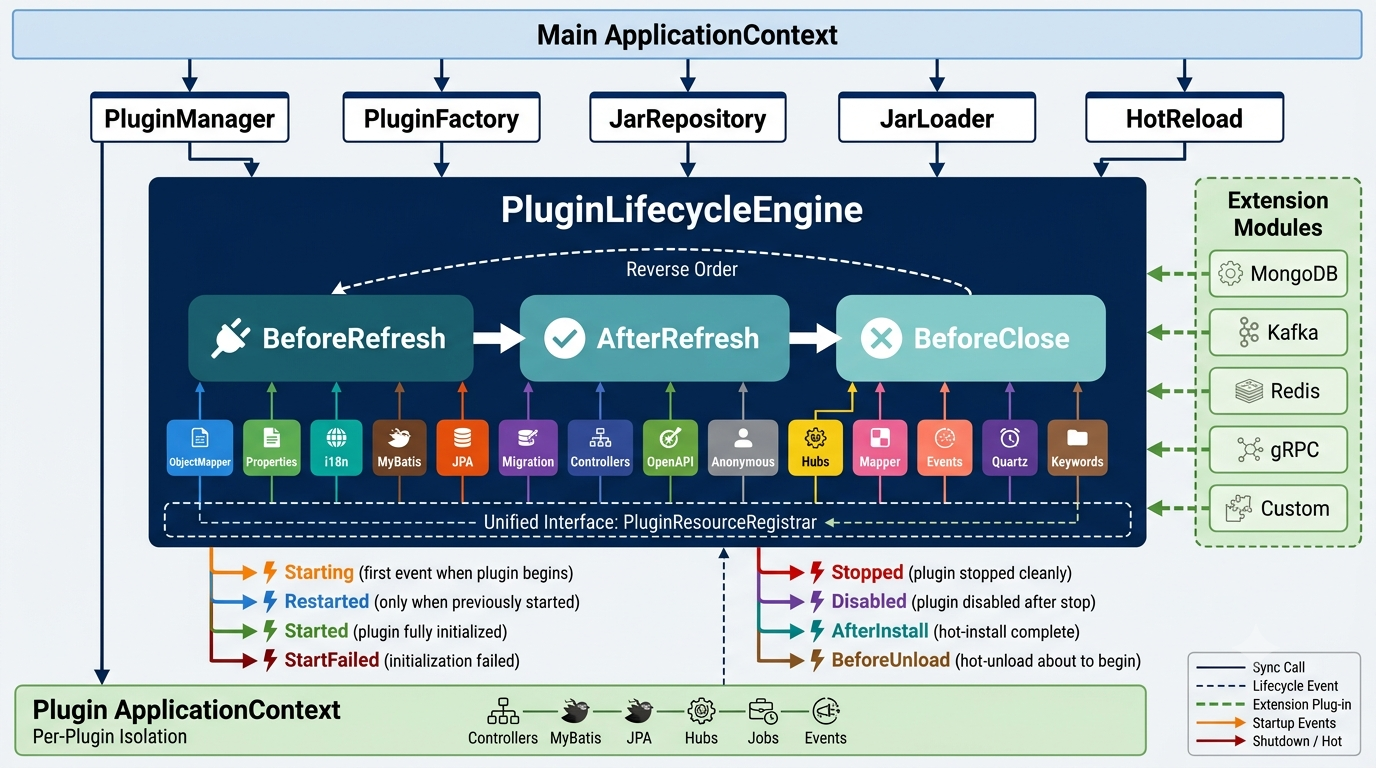
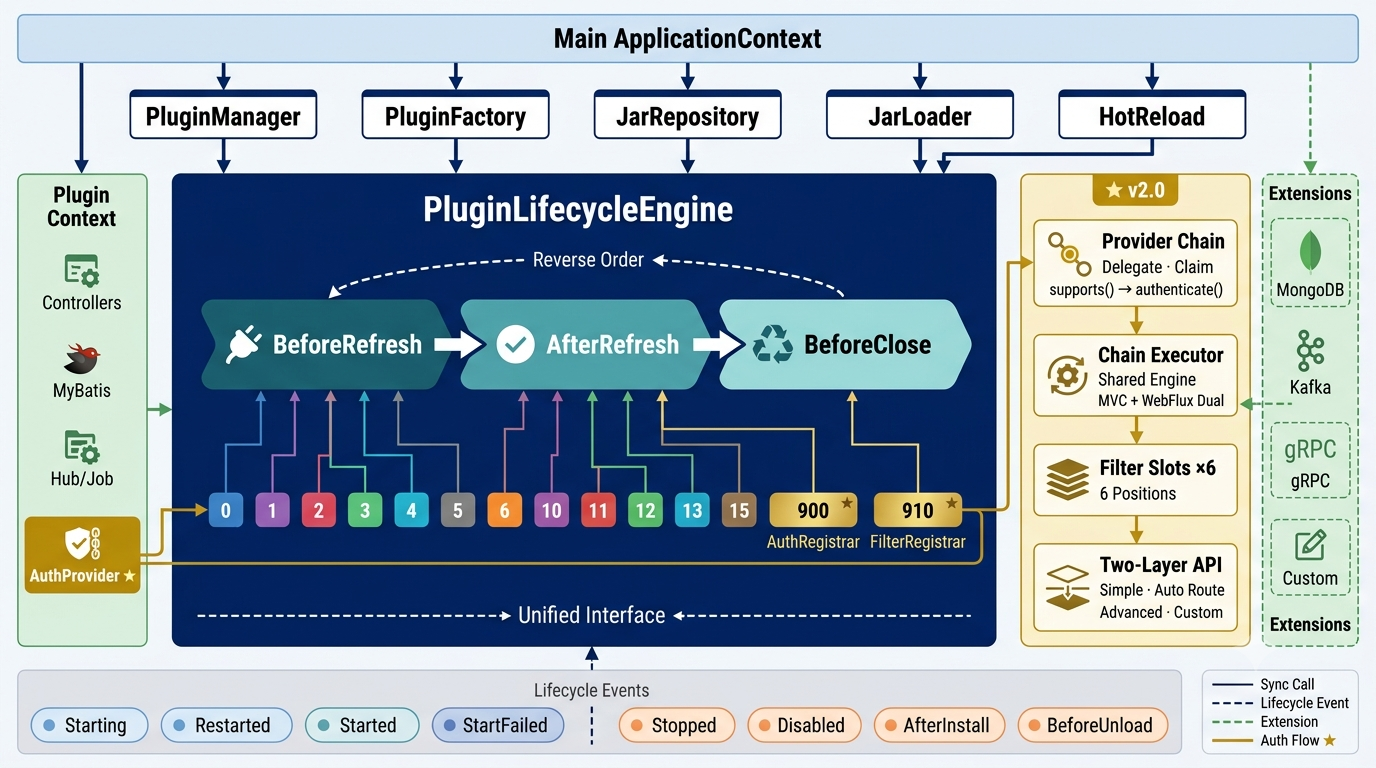
refactor: rename gj.plugin.security to gj.security, clean up README
- Flatten security config prefix from gj.plugin.security to gj.security
  for consistency with other top-level keys (gj.socketio, gj.quartz, etc.)
- Remove redundant 18-item capability list from both READMEs
- Add open plugin authentication description to READMEs: SPI auth,
  provider chain delegation, six-position filter slots
- Update application-dev.yml matching the new config prefix

diff --git a/src/gj-pf4j-security/src/main/java/gj/pf4j/security/PluginFilterConfigProperties.java b/src/gj-pf4j-security/src/main/java/gj/pf4j/security/PluginFilterConfigProperties.java
@@ -25,7 +25,7 @@ import java.util.*;
  * All filter positions default to <strong>disabled</strong>.
  */
 @Getter
-@ConfigurationProperties(prefix = "gj.plugin.security")
+@ConfigurationProperties(prefix = "gj.security")
 public class PluginFilterConfigProperties {
 
     @Setter

diff --git a/README.md b/README.md
@@ -7,6 +7,8 @@
 
 A lightweight, modular plugin framework powered by PF4J and Spring, with no heavyweight Spring Boot dependency. Pluggable extension points enable any third-party component to integrate into the plugin lifecycle without modifying framework source code. Supports both Spring MVC and Spring WebFlux routing — auto-adapts to the host application's web stack.
 
+Open plugin authentication lets plugins define their own auth logic through an SPI; a provider chain with pluggable strategy delegates requests; six-position filter slots let hosts compose arbitrary security filters — all governed by a host-controlled "install ≠ enable" model.
+
 > [中文文档](README_CN.md) | [Full Documentation → Wiki](https://github.com/wangpengxpy/gj.spring.pf4j/wiki)
 
 <p align="center">
@@ -20,25 +22,6 @@ A lightweight, modular plugin framework powered by PF4J and Spring, with no heav
 <p align="center">
   <img src="images/capabilities.png" alt="Plugin Core Capabilities" width="90%">
 </p>
-
-- **[Plugin Extensions](https://github.com/wangpengxpy/gj.spring.pf4j/wiki/Plugin-Extensions)** — pluggable extension points; any component (MongoDB, Kafka, MQTT, gRPC, etc.) integrates via `PluginResourceRegistrar` without framework changes
-- **[Plugin Authentication](https://github.com/wangpengxpy/gj.spring.pf4j/wiki/Plugin-Authentication)** — pluggable auth; plugins declare custom authentication (API Key, JWT, OAuth2, HMAC webhooks) via SPI; chained provider model with pluggable strategy; seven-position filter extension points with host-controlled "install ≠ enable" model
-- **[Plugin Lifecycle Management](https://github.com/wangpengxpy/gj.spring.pf4j/wiki/Plugin-Lifecycle)** — install, disable, restart, unload, and delete plugins at runtime
-- **[Plugin Hot-Reload](https://github.com/wangpengxpy/gj.spring.pf4j/wiki/Plugin-Hot-Reload)** — hot-reload via API-driven workflow or file watcher; lifecycle events for custom orchestration
-- **[Runtime Plugin Management API](https://github.com/wangpengxpy/gj.spring.pf4j/wiki/Runtime-Management-API)** — `GJPluginService` provides lock-controlled runtime management APIs
-- **[REST Endpoints](https://github.com/wangpengxpy/gj.spring.pf4j/wiki/REST-Endpoints)** — `@RestController` beans auto-detected and registered into the main app's route table, supporting both MVC and WebFlux
-- **[Dual Routing Mode](https://github.com/wangpengxpy/gj.spring.pf4j/wiki/REST-Endpoints#52-spring-mvc-vs-webflux-dual-routing)** — Spring MVC (Servlet) and Spring WebFlux (Reactive); plugins require zero changes
-- **[OpenAPI Documentation](https://github.com/wangpengxpy/gj.spring.pf4j/wiki/OpenAPI)** — SpringDoc-powered; each plugin auto-generates an independent `GroupedOpenApi`
-- **[MyBatis-Plus Data Access](https://github.com/wangpengxpy/gj.spring.pf4j/wiki/Data-Access)** — per-plugin `SqlSessionFactory`, `SqlSessionTemplate`, and `TransactionManager`, sharing host `DataSource`
-- **[JPA Data Access](https://github.com/wangpengxpy/gj.spring.pf4j/wiki/Data-Access)** — Hibernate-powered per-plugin `EntityManagerFactory` and `JpaTransactionManager`; coexists with MyBatis-Plus
-- **[SQL Keyword Quoting](https://github.com/wangpengxpy/gj.spring.pf4j/wiki/Data-Access)** — auto-wraps column names with DB-specific quote characters via MyBatis-Plus `InnerInterceptor`
-- **[Database Auto-Migration](https://github.com/wangpengxpy/gj.spring.pf4j/wiki/Database-Auto-Migration)** — automatic `@TableName` entity schema migration (CREATE TABLE / ADD COLUMN only), 7 databases, production-safe
-- **[Object Mapping](https://github.com/wangpengxpy/gj.spring.pf4j/wiki/Object-Mapping)** — ModelMapper; plugins implement `GJPluginModelMapperConfig`, auto-discovered via Spring bean scanning
-- **[Import/Export](https://github.com/wangpengxpy/gj.spring.pf4j/wiki/Import-Export)** — EasyExcel multi-sheet read/write with automatic i18n header translation
-- **[Real-Time Communication](https://github.com/wangpengxpy/gj.spring.pf4j/wiki/Real-Time-Communication)** — netty-socketio Hub pattern (SignalR-style) with group and user-targeted messaging
-- **[Scheduled Tasks](https://github.com/wangpengxpy/gj.spring.pf4j/wiki/Scheduled-Tasks)** — Quartz-based cron, fixed-interval, and run-once execution
-- **[In-Process Event Bus](https://github.com/wangpengxpy/gj.spring.pf4j/wiki/Event-Bus)** — sync/async publishing with Ant-style wildcard matching
-- **[Internationalization (i18n)](https://github.com/wangpengxpy/gj.spring.pf4j/wiki/Internationalization)** — per-plugin `messages.properties` with fallback to the host application
 
 ---
 

diff --git a/README_CN.md b/README_CN.md
@@ -7,6 +7,8 @@
 
 基于 PF4J 与 Spring 的轻量级模块化插件框架，无 Spring Boot 重依赖。可插拔扩展点允许任意第三方组件以零框架改动的方式接入插件生命周期。支持 Spring MVC 与 Spring WebFlux 双路由模式，自动适配主应用架构。
 
+开放插件自定义鉴权让插件通过 SPI 自由定义认证逻辑，Provider 链式委托配合可插拔策略分发请求，六位 Filter 插槽供宿主编排任意安全过滤器——受"安装 ≠ 启用"模型统一管控。
+
 > [English](README.md) | [完整文档 → Wiki](https://github.com/wangpengxpy/gj.spring.pf4j/wiki)
 
 <p align="center">
@@ -20,25 +22,6 @@
 <p align="center">
   <img src="images/capabilities.png" alt="插件核心能力" width="90%">
 </p>
-
-- **[插件扩展](https://github.com/wangpengxpy/gj.spring.pf4j/wiki/Plugin-Extensions_CN)** — 可插拔扩展点；任意组件（如 MongoDB、Kafka、MQTT、gRPC 等）通过 `PluginResourceRegistrar` 接入，无需修改框架源码
-- **[插件认证](https://github.com/wangpengxpy/gj.spring.pf4j/wiki/Plugin-Authentication_CN)** — 可插拔鉴权；插件通过 SPI 声明自定义认证（API Key、JWT、OAuth2、HMAC Webhook）；链式 Provider 模型与可插拔策略；七位置 Filter 扩展点，宿主"安装≠启用"编排模型
-- **[插件生命周期管理](https://github.com/wangpengxpy/gj.spring.pf4j/wiki/Plugin-Lifecycle_CN)** — 运行时安装、禁用、重启、卸载和删除插件
-- **[插件热加载](https://github.com/wangpengxpy/gj.spring.pf4j/wiki/Plugin-Hot-Reload_CN)** — 通过 API 驱动工作流或文件监听实现热加载；生命周期事件支持自定义编排逻辑
-- **[插件运行时管理 API](https://github.com/wangpengxpy/gj.spring.pf4j/wiki/Runtime-Management-API_CN)** — `GJPluginService` 提供加锁控制的运行时管理 API
-- **[REST 端点](https://github.com/wangpengxpy/gj.spring.pf4j/wiki/REST-Endpoints_CN)** — `@RestController` Bean 自动探测并注册到主应用路由表，支持 MVC 和 WebFlux
-- **[双路由模式](https://github.com/wangpengxpy/gj.spring.pf4j/wiki/REST-Endpoints_CN#52-spring-mvc-与-webflux-双路由模式)** — Spring MVC (Servlet) 与 Spring WebFlux (Reactive)；插件无需任何改动
-- **[OpenAPI 文档](https://github.com/wangpengxpy/gj.spring.pf4j/wiki/OpenAPI_CN)** — SpringDoc 驱动；每个插件自动生成独立的 `GroupedOpenApi`
-- **[MyBatis-Plus 数据访问](https://github.com/wangpengxpy/gj.spring.pf4j/wiki/Data-Access_CN)** — 每个插件获得独立的 `SqlSessionFactory`、`SqlSessionTemplate` 和 `TransactionManager`，共享主应用 `DataSource`
-- **[JPA 数据访问](https://github.com/wangpengxpy/gj.spring.pf4j/wiki/Data-Access_CN)** — Hibernate 驱动，每个插件独立的 `EntityManagerFactory` 和 `JpaTransactionManager`；与 MyBatis-Plus 可共存
-- **[SQL 关键字引号处理](https://github.com/wangpengxpy/gj.spring.pf4j/wiki/Data-Access_CN)** — 通过 MyBatis-Plus `InnerInterceptor` 自动使用数据库特定引号包裹列名
-- **[数据库自动迁移](https://github.com/wangpengxpy/gj.spring.pf4j/wiki/Database-Auto-Migration_CN)** — 自动 `@TableName` 实体 Schema 迁移（仅 CREATE TABLE / ADD COLUMN），支持 7 种数据库，生产安全
-- **[对象映射](https://github.com/wangpengxpy/gj.spring.pf4j/wiki/Object-Mapping_CN)** — ModelMapper；插件实现 `GJPluginModelMapperConfig`，Spring Bean 扫描自动发现
-- **[导入导出](https://github.com/wangpengxpy/gj.spring.pf4j/wiki/Import-Export_CN)** — EasyExcel 多 Sheet 读写，自动 i18n 表头翻译
-- **[实时通信](https://github.com/wangpengxpy/gj.spring.pf4j/wiki/Real-Time-Communication_CN)** — netty-socketio Hub 模式（SignalR 风格），支持分组和用户定向推送
-- **[定时任务](https://github.com/wangpengxpy/gj.spring.pf4j/wiki/Scheduled-Tasks_CN)** — 基于 Quartz 的 cron、固定间隔和一次性执行
-- **[进程内事件总线](https://github.com/wangpengxpy/gj.spring.pf4j/wiki/Event-Bus_CN)** — 同步/异步发布，支持 Ant 风格通配符匹配
-- **[国际化 i18n](https://github.com/wangpengxpy/gj.spring.pf4j/wiki/Internationalization_CN)** — 每个插件独立的 `messages.properties`，支持向主应用兜底
 
 ---
 
